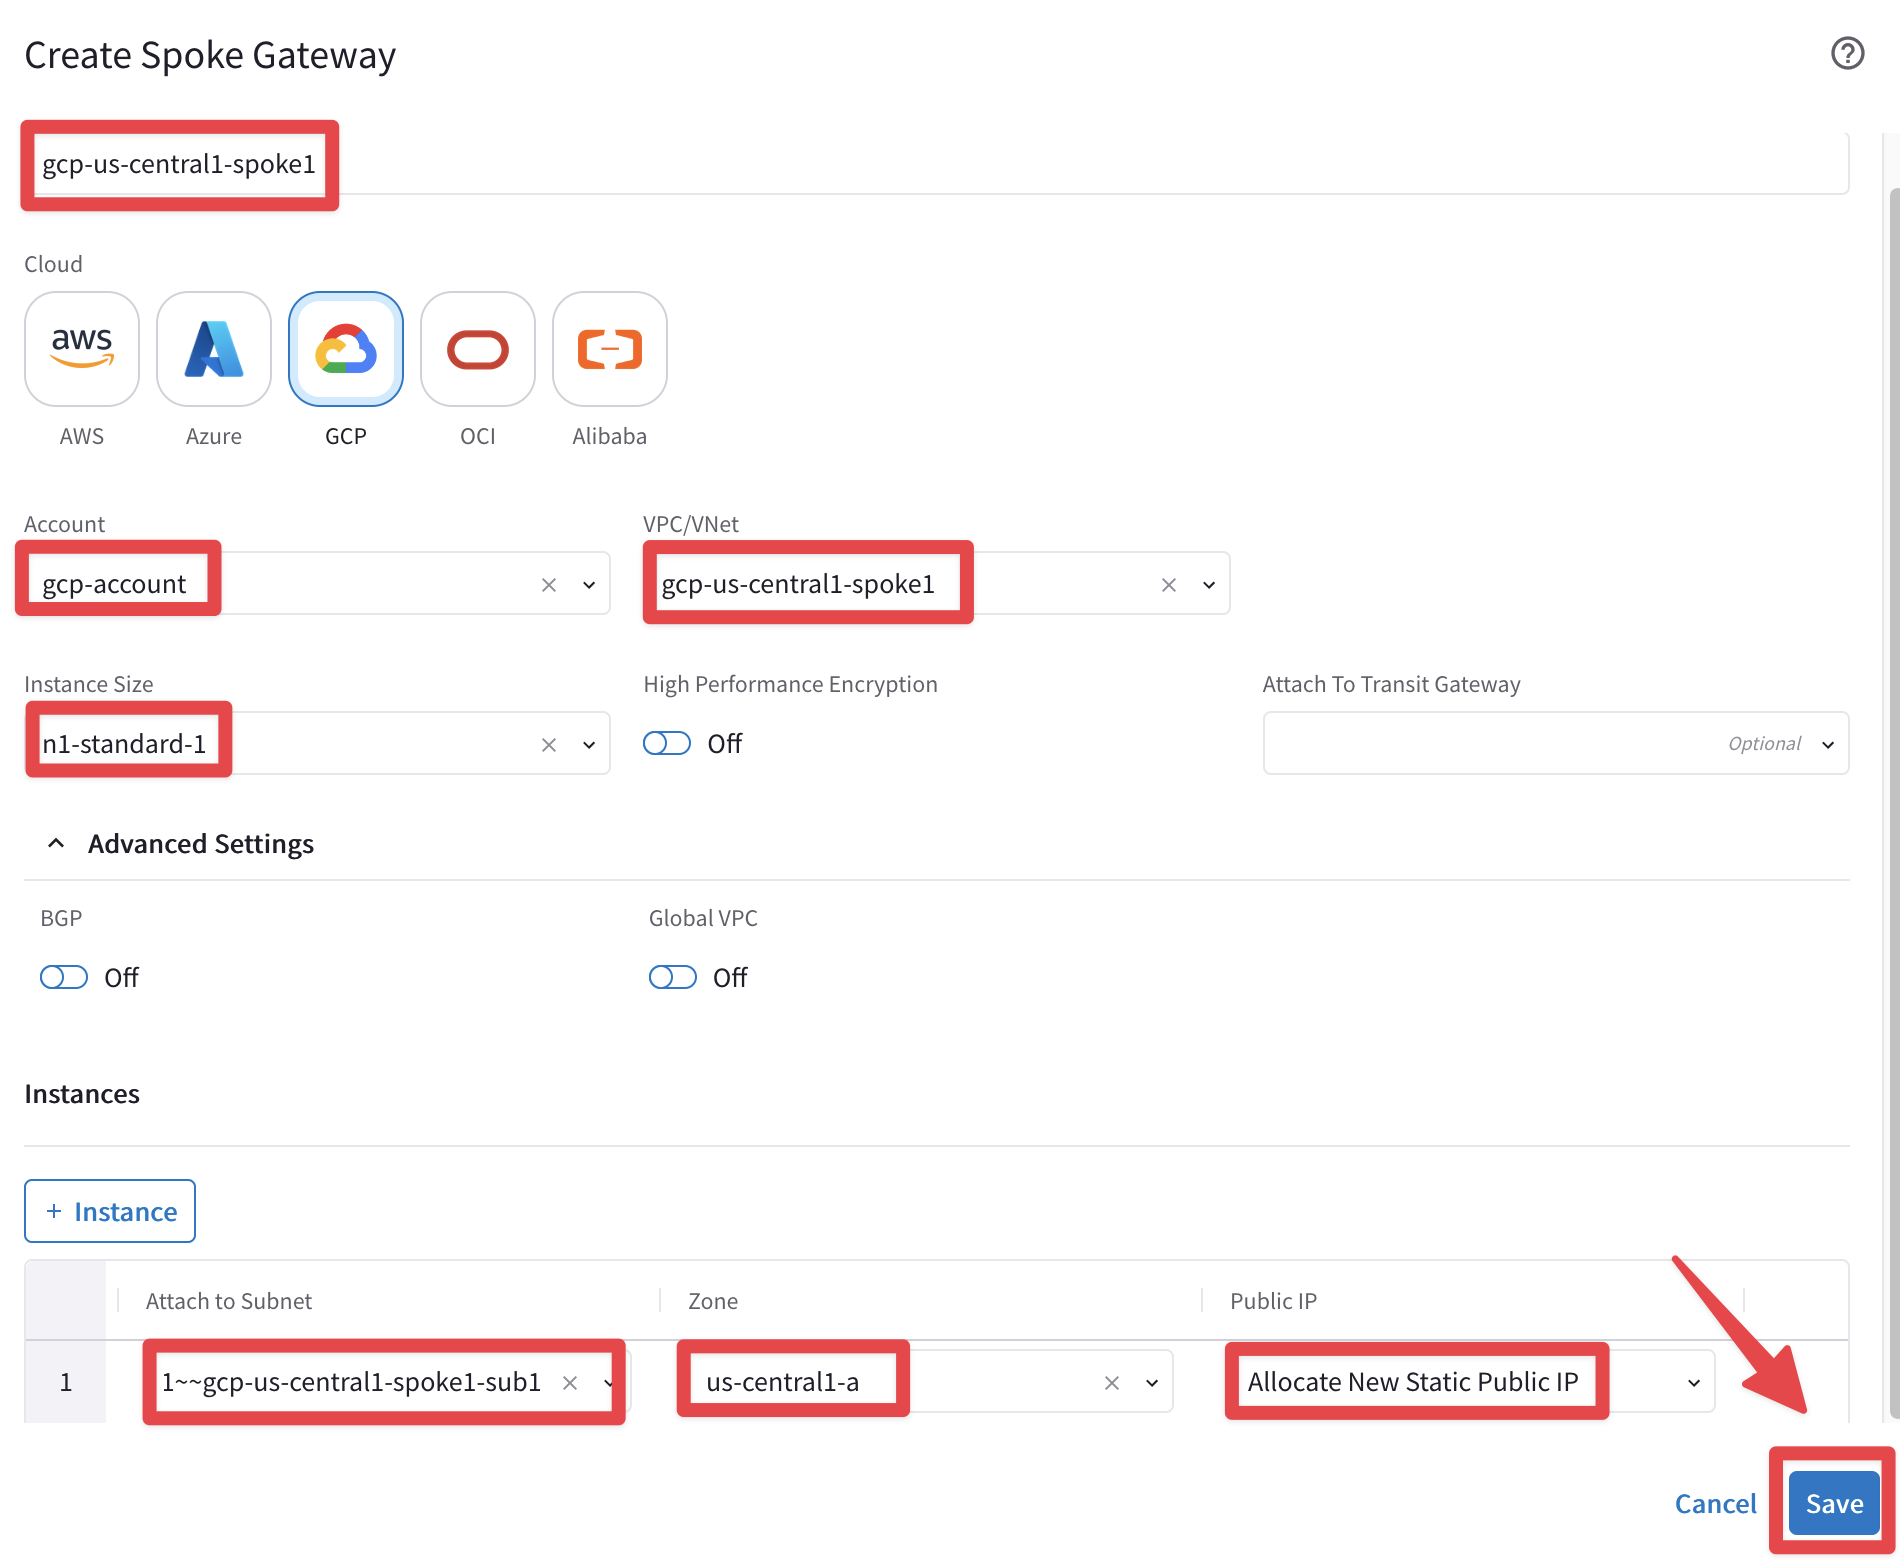
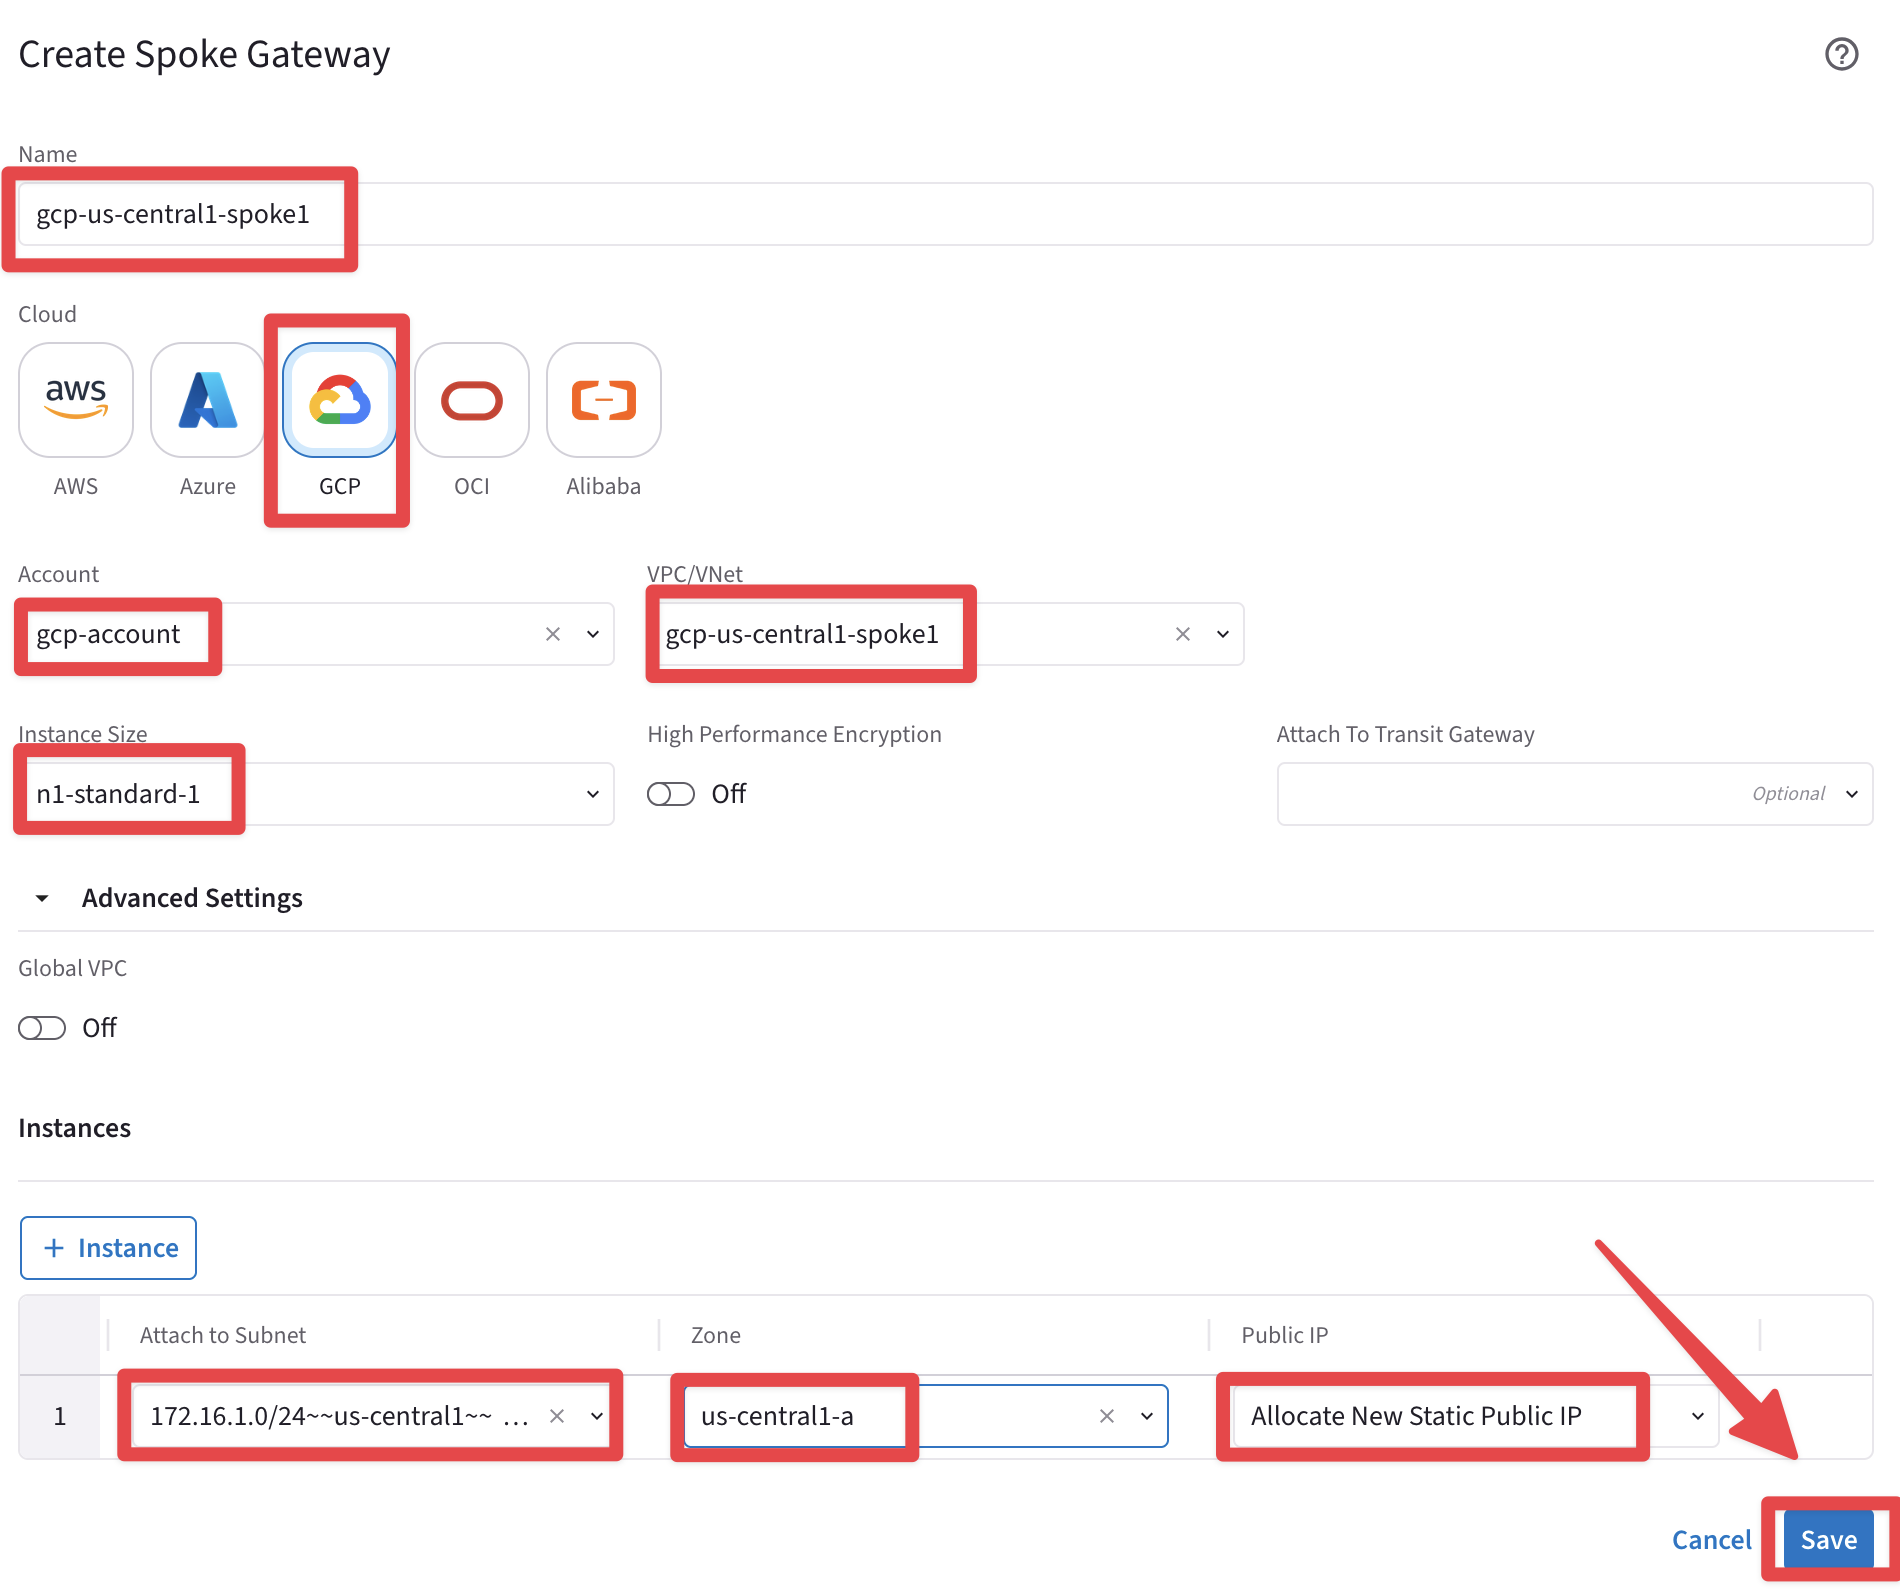
update for pro

diff --git a/ace_pro/docs/lab2.md b/ace_pro/docs/lab2.md
@@ -138,9 +138,7 @@ These are Clusters of GWs
 
 This view within the Cloud Fabric section does not indicate the exact number of gateways but it refers to the number of **_clusters_**, per each type of gateway.
 
-Go to **CoPilot > Cloud Fabric > Gateways > Transit Gateways** and expand the three drop-down lists. 
-
-You can find out that there are a total of **Three** Transit Gateways (Public IPs may differ):
+Go to **CoPilot > Cloud Fabric > Gateways > Transit Gateways** and you will find out that there are a total of **Three** Transit Gateways (Public IPs may differ):
 
 ```{figure} images/lab2-clustertransit.png
 ---
@@ -154,7 +152,7 @@ Transit GWs Clusters
 You can deploy up to maximum **two** Transit Gateways per each Transit VPC/VNet/VCN.
 ```
 
-Go to **CoPilot > Cloud Fabric > Gateways > Spoke Gateways** and expand the unique drop-down list. You can find out that there are a total of **three** Spoke Gateways (once again, the Public IPs may differ):
+Go to **CoPilot > Cloud Fabric > Gateways > Spoke Gateways** and explore the list of the available Spoke gateways. You can find out that there are a total of **three** Spoke Gateways (once again, the Public IPs may differ):
 
 ```{figure} images/lab2-clusterspoke.png
 ---
@@ -188,7 +186,7 @@ Please pay close attention to each step, as a misconfiguration could result in *
 
 ```{figure} images/lab2-transitbutton.png
 ---
-height: 250px
+height: 350px
 align: center
 ---
 +Transit Gateway
@@ -261,7 +259,7 @@ This is **CoPilot > Cloud Fabric > Gateways > Spoke Gateways > + Spoke Gateway**
 
 ```{figure} images/lab2-spokecreate.png
 ---
-height: 250px
+height: 350px
 align: center
 ---
 +Spoke Gateway
@@ -282,7 +280,7 @@ Only one Spoke Gateway will be deployed in VPC **aws-us-east2-spoke1**.
 - **VPC ID:** <span style='color:#479608'>aws-us-east-2-spoke1 (Make sure you don't select aws-us-east-2-**transit** VPC)</span>
 - **Instance Size:** <span style='color:#479608'>t2.medium</span>
 - **High Performance Encryption:** <span style='color:#479608'>**Off**</span>
-- **Attach to Subnet:** <span style='color:#479608'>aws-us-east-2-spoke1-Public-1-us-east-2a</span>
+- **Attach to Subnet:** <span style='color:#479608'>10.0.1.96/27 - aws-us-east-2-spoke1-Public-1-us-east-2a</span>
 - **Public IP:** <span style='color:#479608'>Allocate New Static Public IP</span>
 
 Click **SAVE**.
@@ -311,7 +309,7 @@ Only one Spoke Gateway will be deployed in VNet **azure-west-us-spoke1**.
 - **VNet:** <span style='color:#479608'>azure-west-us-spoke1 (Make sure you don't select azure-west-us-**spoke2** VPC)</span>
 - **Instance Size:** <span style='color:#479608'>Standard_B2ms</span>
 - **High Performance Encryption:** <span style='color:#479608'>**Off**</span>
-- **Attach to Subnet:** <span style='color:#479608'>azure-west-us-spoke1-Public-gateway-subnet-1</span>
+- **Attach to Subnet:** <span style='color:#479608'>192.168.1.0/28 - azure-west-us-spoke1-Public-gateway-subnet-1</span>
 - **Public IP:** <span style='color:#479608'>Allocate New Static Public IP</span>
 
 ```{warning}
@@ -351,7 +349,7 @@ Only one Spoke Gateway will be deployed in VPC **gcp-us-central1-spoke1**.
 - **Instance Size:** <span style='color:#479608'>n1-standard-1</span>
 - **High Performance Encryption:** <span style='color:#479608'>**Off**</span>
 - **Attach to Subnet:** <span style='color:#479608'>gcp-us-central1-spoke1-sub1</span>
-- **Zone:** <span style='color:#479608'>us-central1-a</span>
+- **Zone:** <span style='color:#479608'>172.16.1.0/24 - us-central1-a</span>
 - **Public IP:** <span style='color:#479608'>Allocate New Static Public IP</span>
 
 Click **SAVE**.
@@ -740,7 +738,7 @@ align: center
 Route DB
 ```
 
-## 5.4. Connectivity
+## 5.4. Connectivity tests through Gatus
 
 Verify each test instance can ping each other.
 
